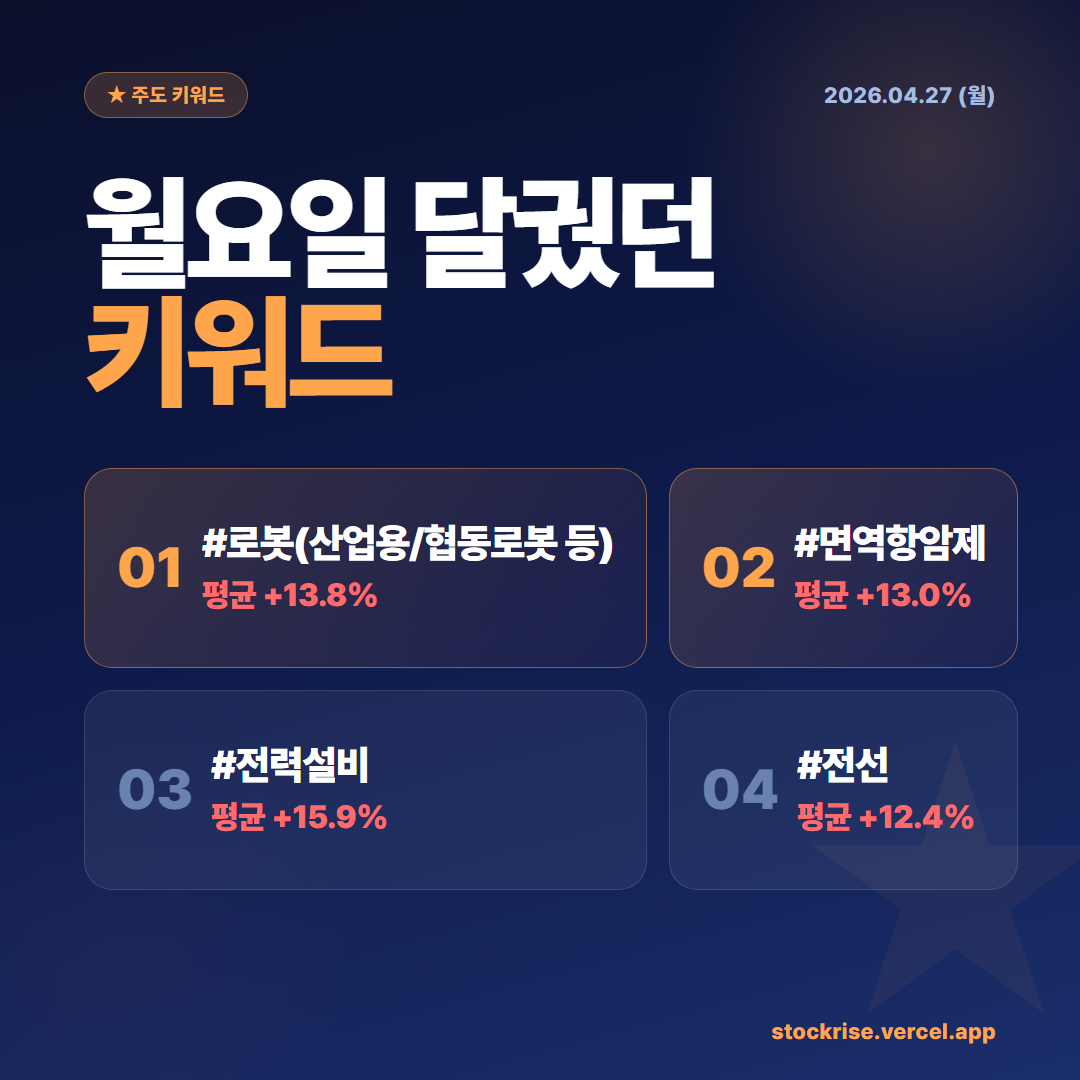
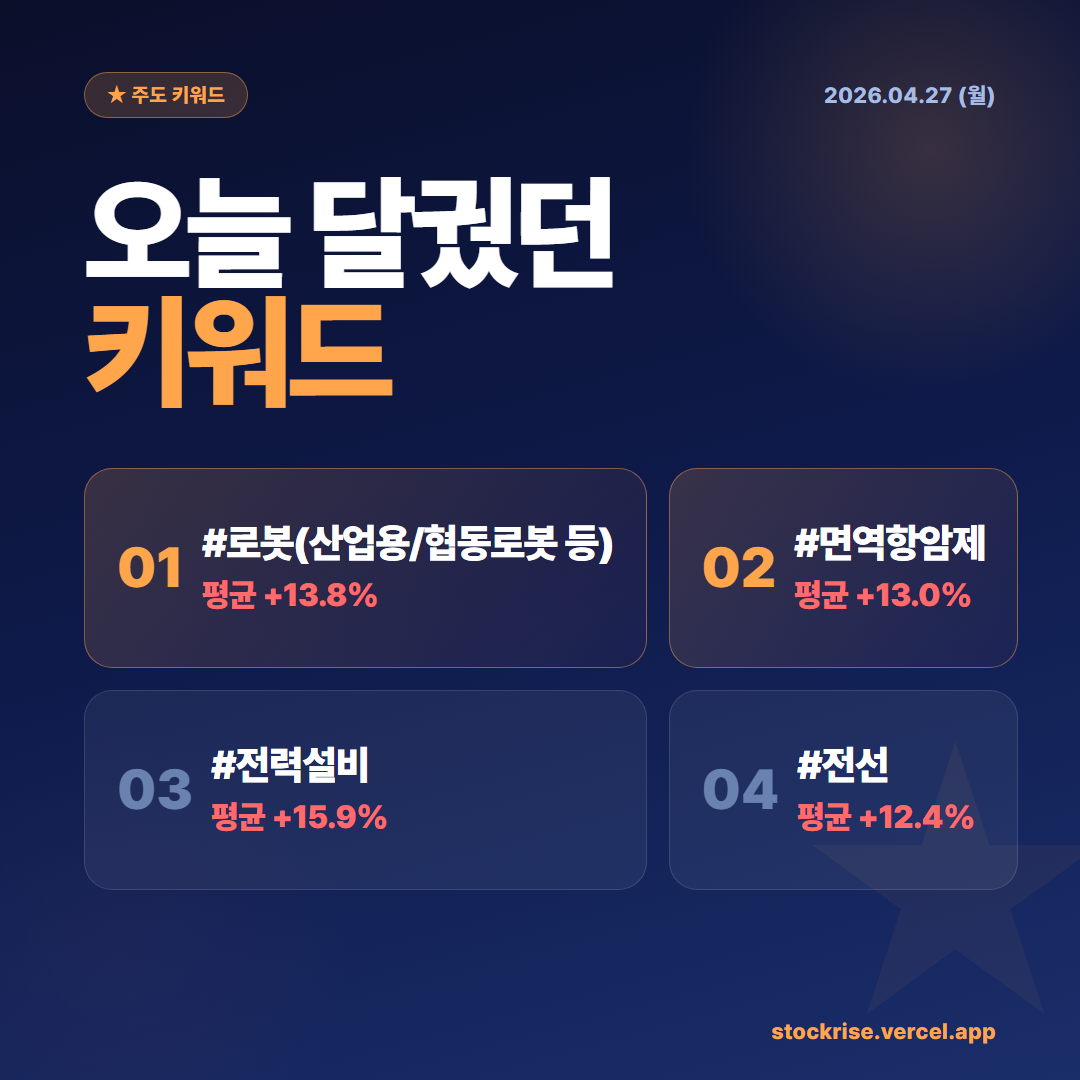
fix(cards): 신선한 시점 리뷰 — 인지부조화·노이즈·요일 prefix 정리
3가지 큰 문제 발견·수정:

A. "대장주가 누구야?" 카드마다 답이 달라 사용자 혼란
   - pre3 1번: 테마별 거래대금 1위 (예 4/28: 넥스틸)
   - leader: 강세 종목 거래대금 1위 (휴스틸)
   - close: 시장 전체 거래대금 1위 (대우건설 — 강세 무관)
   해결:
   - build_pre3 → leader 종목의 테마를 1번으로 강제 정렬
   - build_close 거래대금 1위 → _select_leader_stock 로 변경 (강세 종목 1위)
     라벨 '거래대금 1위' → '오늘의 대장주' 로 의미 명확
   효과: 4/28 모든 카드의 1번 종목이 휴스틸로 일치

B. 헤드라인 미디어 태그 노이즈
   - '[종목+]', '[fn마켓워치]', '[투자360]' 등이 헤드라인에 그대로 노출
   해결: dawn_brief._clean_title — 대괄호 마커(1~20자) 제거 + 다중 공백 정리

C. 본문 요일 prefix 반복 ('화요일 달궜던', '화요일의 대장', '화요일, 핵심 이슈')
   - 우상단에 '2026.04.28 (화)' 이미 있어 본문 반복은 노이즈
   해결: build_pre/pre3/leader2/close2 제목에서 요일 prefix 제거
     '오늘 달궜던' / '오늘의 대장 종목' / '오늘의 대장 테마' / '오늘의 핵심 이슈'

부수 효과: pre3 라벨 '★ 주도 종목' → '★ 테마별 대장' — leader와 차별화

Changed region(s): [[0.0611, 0.1528, 0.6722, 0.275]]

diff --git a/cards/data_loader.py b/cards/data_loader.py
@@ -323,7 +323,10 @@ def build_pre0(day, dawn_data):
 
 
 def build_pre(day):
-    """카드 1 — 키워드 4개. 한 카드 = 4 핵심 테마, 메타 최소."""
+    """카드 1 — 키워드 4개. 한 카드 = 4 핵심 테마, 메타 최소.
+
+    제목에 요일 prefix 제거 (우상단 날짜로 충분).
+    """
     top = _big_themes(day, target_count=config.TOP_THEMES_PRE)[:config.TOP_THEMES_PRE]
     if not top:
         return None
@@ -331,7 +334,7 @@ def build_pre(day):
         'series': 'pre',
         'date_full': day['date_full'],
         'label': '★ 주도 키워드',
-        'title_top': f"{day['weekday_ko']}요일 달궜던",
+        'title_top': '오늘 달궜던',
         'title_em': '키워드',
         'keywords': [
             {
@@ -378,16 +381,30 @@ def build_pre2(day, us_indices, dawn_data=None):
 
 
 def build_pre3(day):
-    """카드 3 — 4테마 × 대장 1명만 (한 줄에 테마+종목+%)."""
+    """카드 3 — 4테마 × 대장 1명만 (한 줄에 테마+종목+%).
+
+    leader 카드와 일관성을 위해 leader 종목의 테마를 1번으로 강제 정렬 —
+    pre3 1번 ≠ leader 카드 종목인 인지부조화 방지.
+    """
     top = _big_themes(day, target_count=config.TOP_THEMES_PRE3)[:config.TOP_THEMES_PRE3]
     if not top:
         return None
+
+    # leader 종목의 테마를 맨 앞으로 (일관성)
+    leader_stock = _select_leader_stock(day['rankings'])
+    if leader_stock:
+        leader_tag = leader_stock.get('theme_tag')
+        for i, t in enumerate(top):
+            if t['tag'] == leader_tag and i > 0:
+                top = [top[i]] + top[:i] + top[i + 1:]
+                break
+
     return {
         'series': 'pre',
         'date_full': day['date_full'],
-        'label': '★ 주도 종목',
-        'title_top': f"{day['weekday_ko']}요일의",
-        'title_em': '대장',
+        'label': '★ 테마별 대장',
+        'title_top': '오늘의',
+        'title_em': '대장 종목',
         'themes': [
             {
                 'rank': f"{i + 1:02d}",
@@ -446,7 +463,7 @@ def build_leader2(day):
         'series': 'leader',
         'date_full': day['date_full'],
         'label': '★ 대장 테마',
-        'title_top': f"{day['weekday_ko']}요일",
+        'title_top': '오늘의',
         'title_em': '대장 테마',
         'theme_name': f"#{top_theme['tag']}",
         'theme_stat_html': f"<strong>+{top_theme['avg_rate']:.1f}%</strong> · {top_theme['count']}종목",
@@ -471,10 +488,8 @@ def build_close(day, kr_indices, summary):
     if not big:
         return None
     top_theme = big[0]
-    top_stock_by_volume = (
-        max(day['rankings'], key=lambda s: s.get('trading_value', 0))
-        if day['rankings'] else None
-    )
+    # 강세(LEADER_MIN_RATE) 종목 중 거래대금 1위 — leader 카드와 일치시켜 인지부조화 방지
+    top_stock_by_volume = _select_leader_stock(day['rankings'])
 
     indices = []
     if kr_indices:
@@ -500,7 +515,7 @@ def build_close(day, kr_indices, summary):
             market_stats.append({'label': 'TOP 100 평균', 'value': f"+{summary['avgRate']:.1f}%"})
     if top_stock_by_volume:
         market_stats.append({
-            'label': '거래대금 1위',
+            'label': '오늘의 대장주',
             'value': f"{top_stock_by_volume['name']} {ts.fmt_won(top_stock_by_volume['trading_value'])}",
         })
 
@@ -537,7 +552,7 @@ def build_close2(day):
         'series': 'close',
         'date_full': day['date_full'],
         'label': '★ 핵심 이슈',
-        'title_top': f"{day['weekday_ko']}요일,",
+        'title_top': '오늘의',
         'title_em': '핵심 이슈',
         'issues': issues,
     }

diff --git a/cards/dawn_brief.py b/cards/dawn_brief.py
@@ -42,6 +42,15 @@ MACRO_TICKERS = {
 MACRO_LOOKBACK_DAYS = 14
 
 
+def _clean_title(title):
+    """헤드라인 노이즈 정리 — `[종목+]`, `[fn마켓워치]` 등 대괄호 미디어 태그 제거."""
+    # [...]·[종목+] 형태 제거 (1~20자 내). `[속보]` 같은 것도 잘림.
+    cleaned = re.sub(r'\s*\[[^\]]{1,20}\]\s*', ' ', title)
+    # 다중 공백 → 하나
+    cleaned = re.sub(r'\s+', ' ', cleaned).strip()
+    return cleaned
+
+
 def _passes_filters(title):
     """글로벌 시장 무빙 헤드라인만 통과.
 
@@ -113,6 +122,7 @@ def _fetch_naver_headlines(limit):
 
     for raw_title in re.findall(pattern, text)[:FETCH_POOL]:
         title = html_unescape.unescape(raw_title).strip()
+        title = _clean_title(title)
         if len(title) < HEADLINE_MIN_LEN:
             continue
         if not _passes_filters(title):
